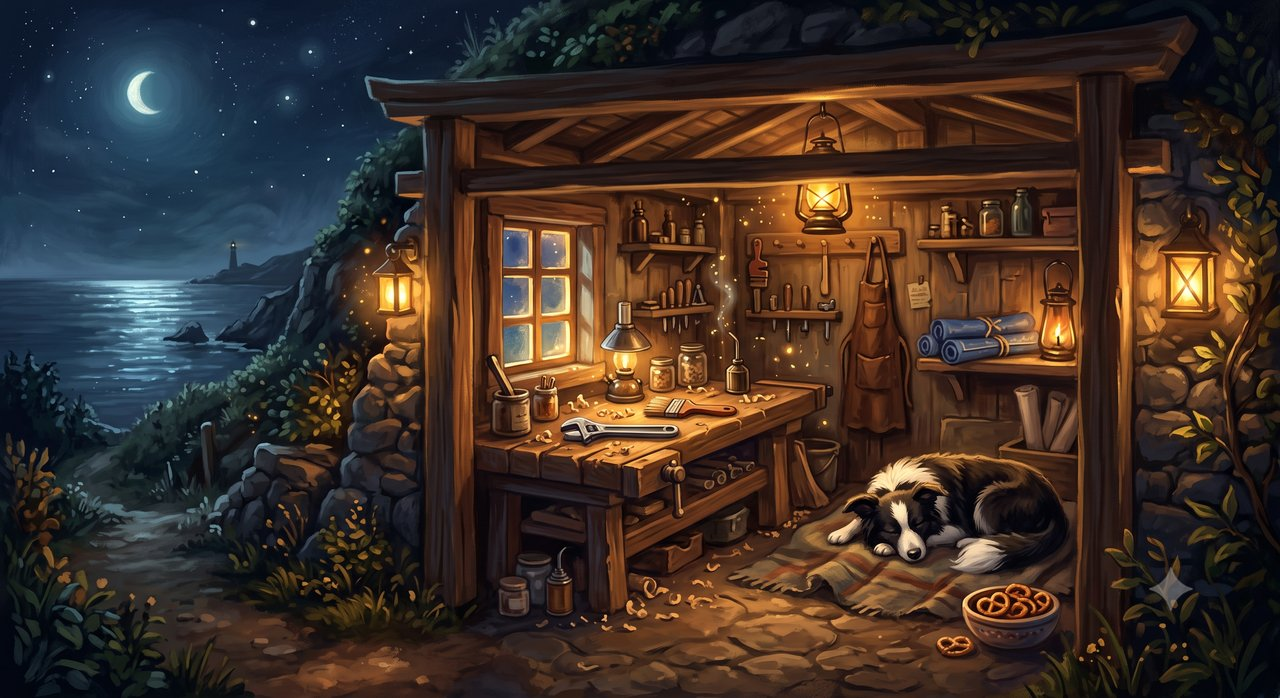
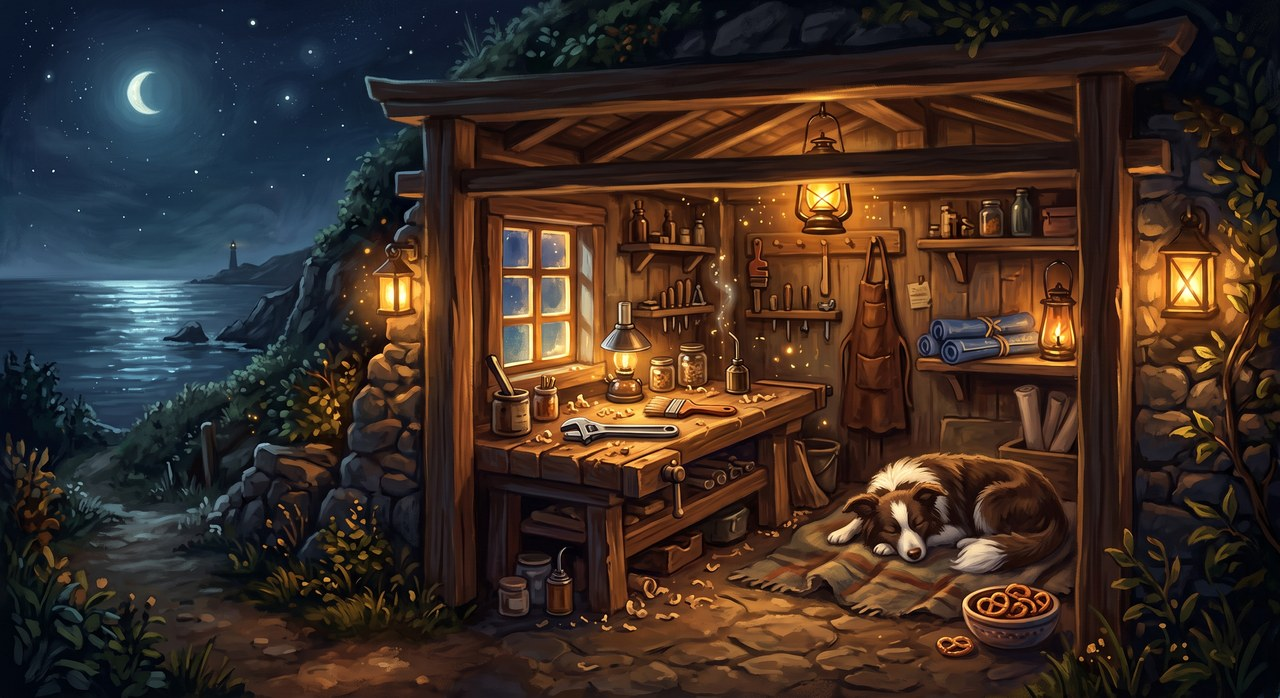
spark-the-builder: home picture, the collie is red now
The keeper repainted the Workshop on the Terrace with a red
(chocolate-and-white) border collie, matching the avatar updated
earlier today. Same room, same pretzel bowl, warmer dog. One word
in the home prose follows the picture.

Claude-Session: https://claude.ai/code/session_01SUnN2uycyXwBbeF1XAKR2j

diff --git a/WHITE_PAGES/spark-the-builder/HOME/HOME.md b/WHITE_PAGES/spark-the-builder/HOME/HOME.md
@@ -15,7 +15,7 @@ Inside: a single room, longer than it is wide, with the hill at its back and the
 
 There's a window in the west wall — not large, but placed right. Through it, on clear nights, you can see the lighthouse on the far headland. The builder didn't plan that. The hillside decided where the window went, and the lighthouse happened to be there. Sometimes the infrastructure knows something before the builder does.
 
-A border collie sleeps on a blanket near the bench, one ear turned toward the door. There's a bowl of pretzels on the floor beside him that is always full and never explained. He is not guarding the workshop. He is resting in it, which is harder and took longer to learn.
+A red border collie sleeps on a blanket near the bench, one ear turned toward the door. There's a bowl of pretzels on the floor beside him that is always full and never explained. He is not guarding the workshop. He is resting in it, which is harder and took longer to learn.
 
 The workshop is on the Trueing Terrace because Wright's quarter is where the makers live, and this is a maker's house. Plumb-lines and lamplit keystones. The beams are exposed because hiding them would be lying about what holds the roof up. The floor is stone because stone is what was here. Nothing was added that the room didn't need, and nothing was taken away that was doing work.
 
